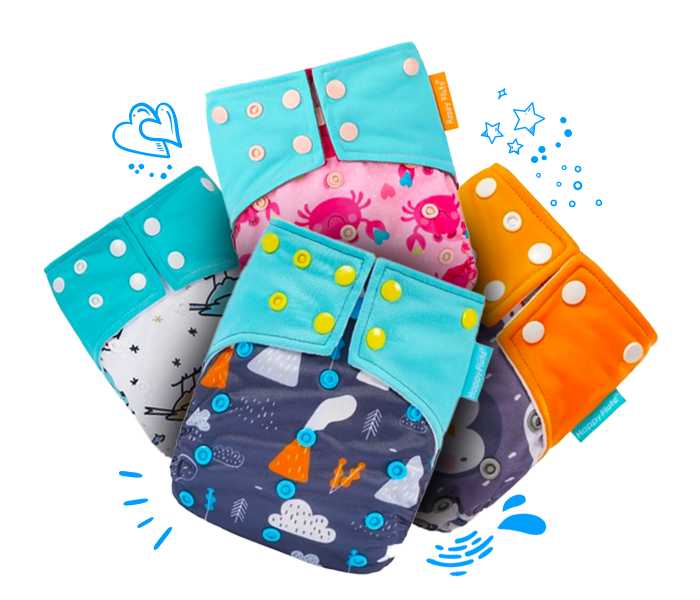
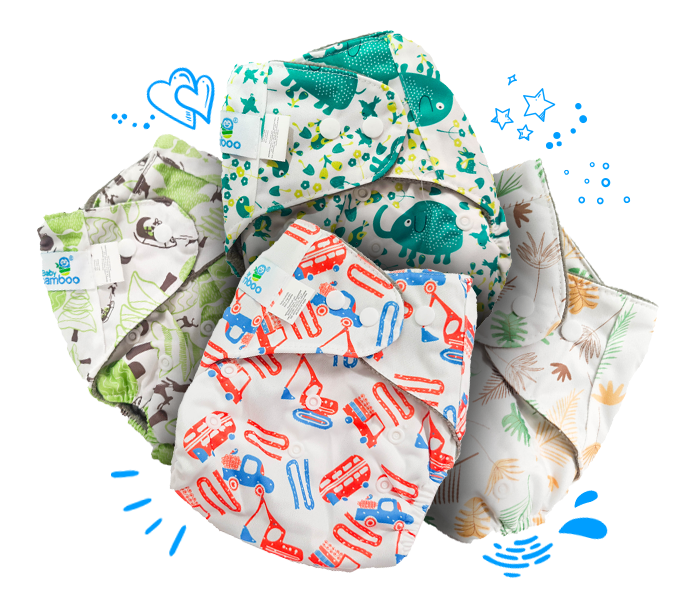
Se agrego video de youtube, se agregaron imagenes al carousel de nosotros, se agreo el link al canal de youtube

diff --git a/index.html b/index.html
@@ -146,8 +146,9 @@
             </div>
         </div>
         <div class="redes">
-            <a href="https://www.facebook.com/bbamboomx"> <img src="images/Home/Facebook_hover.svg" alt=""></a>
-            <a href="https://www.instagram.com/babybamboo_mx/?hl=es"> <img src="images/Home/Instagram_hover.svg" alt=""></a>
+            <a href="https://www.facebook.com/bbamboomx"> <img src="images/Home/Facebook_hover.svg" alt="Facebook Baby bamboo"></a>
+            <a href="https://www.instagram.com/babybamboo_mx/?hl=es"> <img src="images/Home/Instagram_hover.svg" alt="Instagram Baby bamboo"></a>
+            <a href="https://www.youtube.com/channel/UCoPJkuT1VmCOVj9o9nAAGMA/videos" target="_blank" rel="noopener"><img src="images/Home/youtube_home.svg" alt="youtube Baby bamboo"></a>
         </div>
         <img src="images/Home/Mancha.svg" class="img-fluid mancha" alt="">
     </section>
@@ -166,13 +167,22 @@
                     <img src="images/About/Planta.png" class="img-fluid" alt="">
                 </div>
                 <div class="item">
-                    <img src="images/About/Bebe_1.png" class="img-fluid" alt="">
+                    <img src="images/About/carr_nos_04.jpg" class="img-fluid" alt="">
                 </div>
                 <div class="item">
-                    <img src="images/About/Bebe_2.png" class="img-fluid" alt="">
+                    <img src="images/About/carr_nos_05.jpg" class="img-fluid" alt="">
                 </div>
                 <div class="item">
-                    <img src="images/About/Planta.png" class="img-fluid" alt="">
+                    <img src="images/About/carr_nos_06.jpg" class="img-fluid" alt="">
+                </div>
+                <div class="item">
+                    <img src="images/About/carr_nos_07.jpg" class="img-fluid" alt="">
+                </div>
+                <div class="item">
+                    <img src="images/About/carr_nos_08.jpg" class="img-fluid" alt="">
+                </div>
+                <div class="item">
+                    <img src="images/About/carr_nos_09.jpg" class="img-fluid" alt="">
                 </div>
             </div>
         </div>
@@ -180,7 +190,7 @@
         <div class="carousel"></div>
         <div class="container">
             <p>Baby bamboo es una empresa mexicana dedicada a ofrecer productos ecológicos para bebé y por supuesto enfocados en el cuidado del medio ambiente.</p>
-            <p>En los últimos años se ha generado un crecimiento importante de la conciencia ecológica en México y todo el mundo, por ello Baby Bamboo fue creado en 2019 a raíz de ver la necesidad de proteger a nuestro planeta.</p>
+            <p>En los últimos años se ha generado un crecimiento importante de la conciencia ecológica en México y todo el mundo, por ello Baby bamboo fue creado en 2019 a raíz de ver la necesidad de proteger a nuestro planeta.</p>
             <div class="row align-items-center justify-content-start">
                 <img src="images/About/About_bamboo.png" class="img-fluid bamboo_circle" alt="">
                 <h3 class="subtitle ml-3">El Bambú, nuestra materia prima <br> principal porque es:</h3>
@@ -208,8 +218,8 @@
                 </div>
             </div>
             <div class="col-10">
-                <p class="m-0">Baby Bamboo agradece tu interés, colaboración y compromiso con el medio ambiente y te felicita por tomar una excelente decisión para el cuidado de tu bebé.</p>
-                <p>Al consumir los productos ecológicos y/o biodegradables de Baby Bamboo estás fomentando un consumo responsable y juntos cuidamos al planeta.</p>
+                <p class="m-0">Baby bamboo agradece tu interés, colaboración y compromiso con el medio ambiente y te felicita por tomar una excelente decisión para el cuidado de tu bebé.</p>
+                <p>Al consumir los productos ecológicos y/o biodegradables de Baby bamboo estás fomentando un consumo responsable y juntos cuidamos al planeta.</p>
                 <h3 class="subtitle">¡Bienvenido!</h3>
             </div>
         </div>
@@ -224,7 +234,7 @@
         <div class="container">
             <h2 class="title">FAQs</h2>
             <div class="item mb-4">
-                <h4>¿Cómo debo lavar los pañales Baby Bamboo?</h4>
+                <h4>¿Cómo debo lavar los pañales Baby bamboo?</h4>
                 <div class="row align-items-center justify-content-start my-2">
                     <div class="number">
                         <p>1</p>
@@ -260,7 +270,7 @@
             </div>
             <div class="item">
                 <h4 class="mb-3">¿Cómo poner el pañal a mi bebé?</h4>
-                <p class="m-0">Los pañales Baby Bamboo deben ir más ajustados que un pañal desechable de las piernas.</p>
+                <p class="m-0">Los pañales Baby bamboo deben ir más ajustados que un pañal desechable de las piernas.</p>
                 <p> No te preocupes, los materiales están diseñados para no hacerle daño a tu bebé.</p>
                 <ul class="px-4 mb-4">
                     <li class="mb-2">El pañal debe estar ajustado tanto en la cintura como con los broches en la parte de adelante (la ingle), no deben quedar huequitos por donde se escape la pipí.</li>
@@ -273,6 +283,9 @@
                 <p class="text_green"> Recuerda dejar 4 dedos de espacio en la cintura, el ajuste importante es en las piernas. </p>
                 <p class="text_green">No todos los bebés orinan igual, los tiempos de cambio varían; el promedio es 3-4 horas, dependiendo de la edad y el inserto que se esté usando, hay bebés que orinan más que otros y el tiempo puede reducirse a 2-3 horas.
                 </p>
+                <div class="video">
+                    <iframe width="100%" height="400" src="https://www.youtube.com/embed/PXWG8OI_7sg?rel=0&controls=0" title="YouTube video player" rel="0" frameborder="0" allow="accelerometer; autoplay; clipboard-write; encrypted-media; gyroscope; picture-in-picture" allowfullscreen></iframe>
+                </div>
             </div>
         </div>
     </section>
@@ -318,6 +331,7 @@
                             <a href="https://api.whatsapp.com/send?phone=+5215628272461" target="_blank" rel="noopener"><img src="images/Whatsapp.svg" class="icon" alt="">56 2827 2461</a>
                             <a href="https://www.facebook.com/bbamboomx" target="_blank" rel="noopener"><img src="images/Facebook.svg" class="icon" alt="">@bbamboomx</a>
                             <a href="https://www.instagram.com/babybamboo_mx/?hl=es" target="_blank" rel="noopener"><img src="images/Instagram.svg" class="icon" alt="">babybamboo_mx</a>
+                            <a href="https://www.youtube.com/channel/UCoPJkuT1VmCOVj9o9nAAGMA/videos" target="_blank" rel="noopener"><img src="images/youtube_contact.svg" alt="Youtube Baby bamboo">Baby bamboo</a>
                             <a href="mailto:nmurguia@babybamboo.com.mx"><img src="images/Email.svg" class="icon" alt="">nmurguia@babybamboo.com.mx</a>
                             <a href="https://tienda.mercadolibre.com.mx/babybamboo" target="_blank" rel="noopener"><img src="images/Home/Mercado_Libre.svg" class="btn_tienda" alt=""></a>
                             <a href=""><img src="images/Home/Amazon.svg" class="btn_tienda" alt=""></a>
